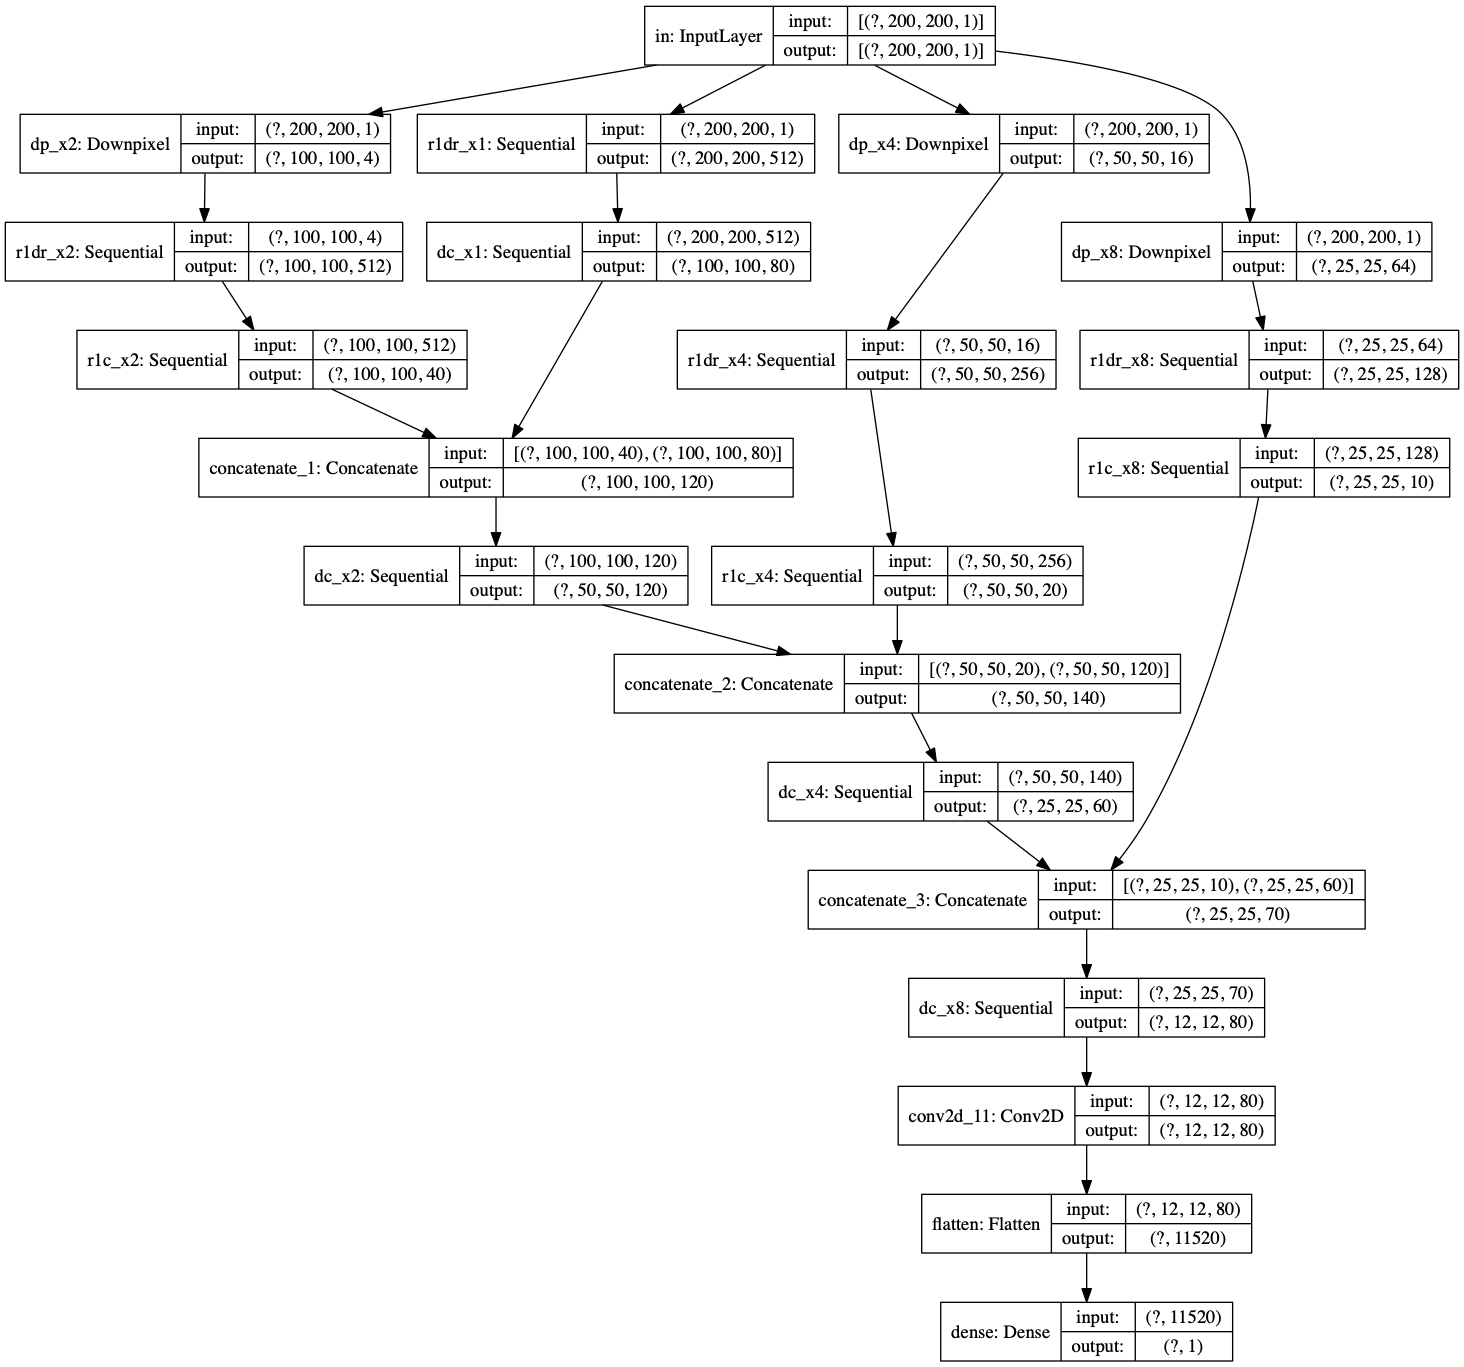
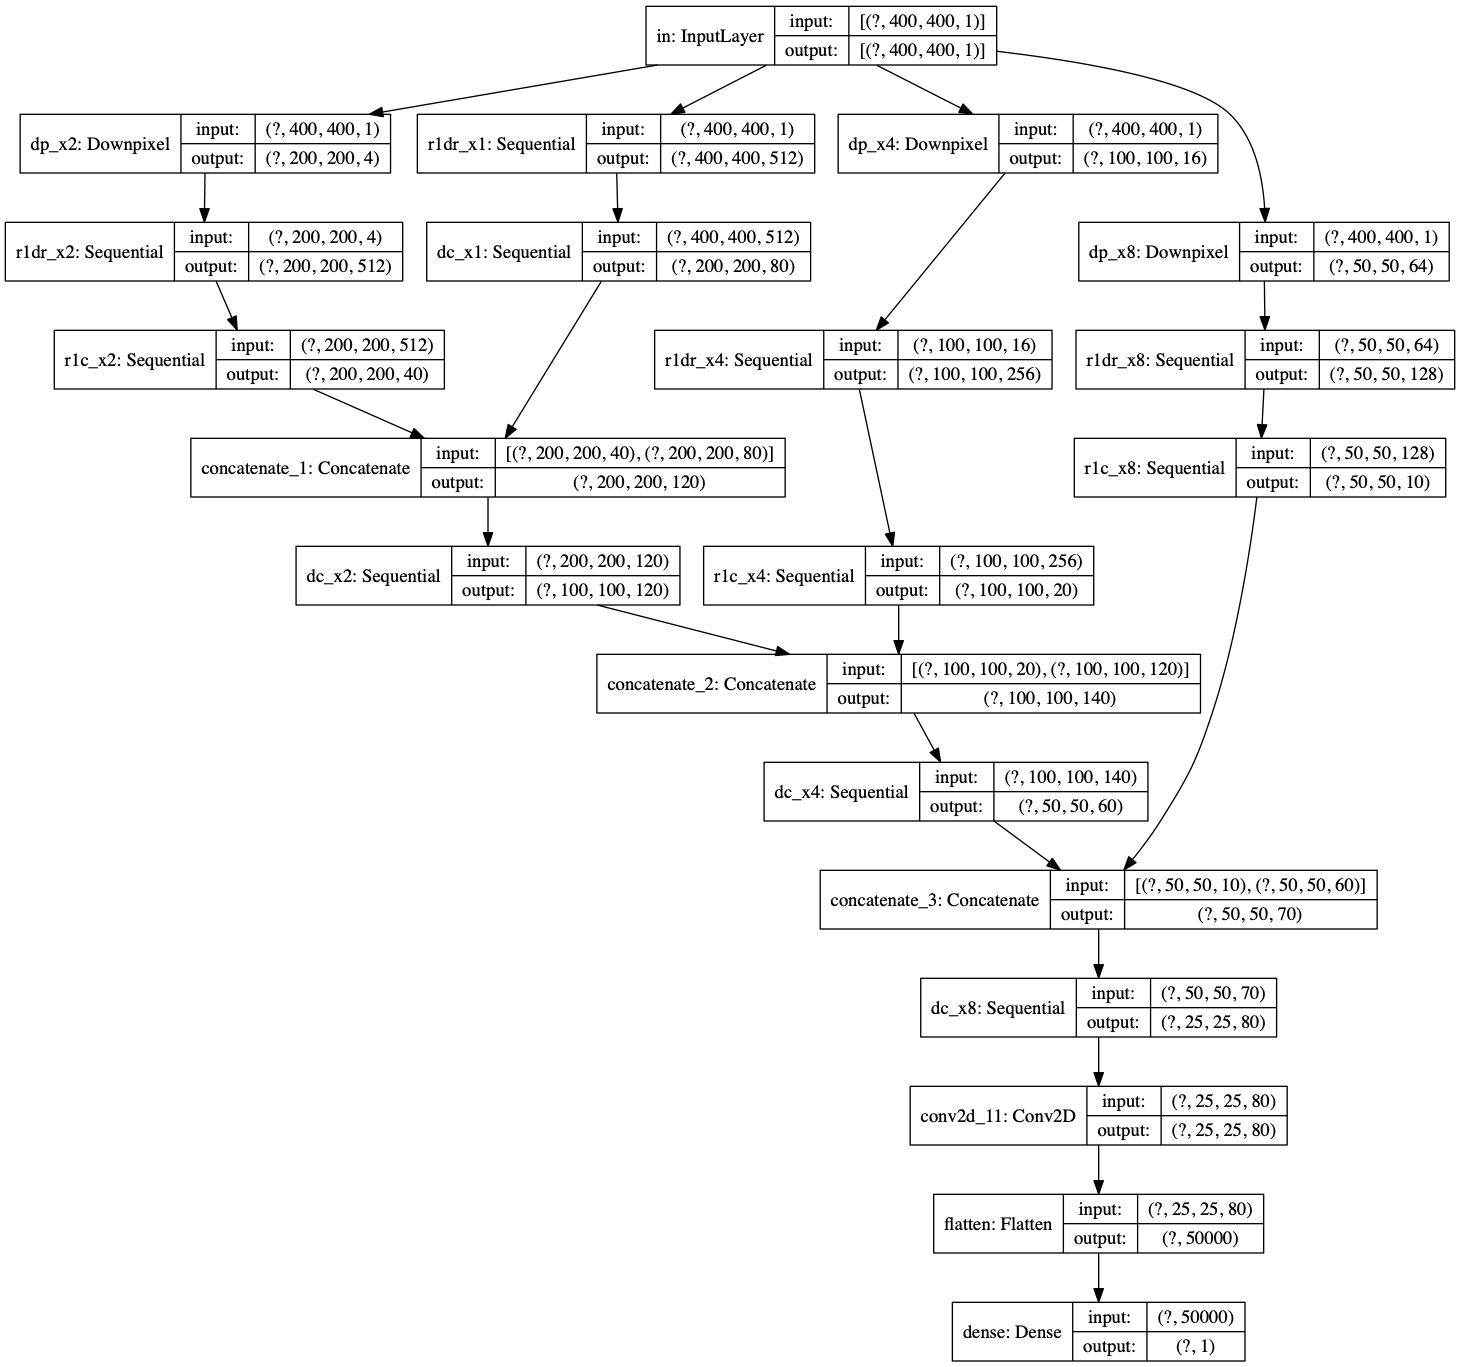
prediction all

diff --git a/test_tad_boundary.py b/test_tad_boundary.py
@@ -1,0 +1,100 @@
+import os
+import numpy as np
+from scipy.sparse import coo_matrix, triu
+
+import subprocess
+import pandas as pd
+
+import cooler
+from iced import filter
+from iced import normalization
+# using hicexplorer to find tad boundary by CLI
+process = list()
+# $ hicFindTADs -m myHiCmatrix.h5 \
+# --outPrefix myHiCmatrix_min3000_max31500_step1500_thres0.05_delta0.01_fdr \
+# --minDepth 3000 \
+# --maxDepth 31500 \
+# --step 1500 \
+# --thresholdComparisons 0.05 \
+# --delta 0.01 \
+# --correctForMultipleTesting fdr \
+# -p 64
+script_work_dir = "./"
+
+name = "/Volumes/GoogleDrive/My Drive/proj/refine_resolution/data/raw/Rao2014-HMEC-MboI-allreps-filtered.100kb.cool"
+c = cooler.Cooler(name)
+resolution = c.binsize
+mat = c.matrix(balance=True).fetch('chr10')
+mat = filter.filter_low_counts(mat, percentage=0.01)
+mat = normalization.ICE_normalization(mat)
+
+bins = c.bins().fetch('chr10')
+
+print(mat.shape)
+print(resolution)
+
+b = {'chrom': ['chr10']*mat.shape[0], 'start': resolution*np.arange(mat.shape[0]), 'end': resolution*np.arange(1, 1+mat.shape[0]), 'weight': [1.0]*mat.shape[0]}
+bins = pd.DataFrame(data = b)
+print(bins)
+
+mat = triu(mat, format='coo')
+p = {'bin1_id': mat.row, 'bin2_id': mat.col, 'count': mat.data}
+pixels = pd.DataFrame(data = p)
+
+uri = os.path.join(".", "demo", "demo.cool")
+cooler.create_cooler(cool_uri=uri, bins=bins, pixels=pixels)
+
+# hicConvertFormat -m matrix.hic --inputFormat hic --outputFormat cool -o matrix.cool --resolutions 10000
+
+"""script_work_dir = os.path.join(".", "demo")
+matrix = os.path.join(".", "demo", "demo.cool")
+outPrefix = "myHiCmatrix"
+cmd = ["hicConvertFormat", 
+        "-m", matrix, 
+        "--inputFormat", "cool",
+        "--outputFormat", "h5",
+        "-o", "demo.h5"
+    ]
+process.append(subprocess.Popen(cmd, cwd=script_work_dir))
+for p in process:
+    p.wait()"""
+
+script_work_dir = os.path.join(".", "demo")
+matrix = os.path.join(".", "demo.cool")
+outPrefix = "myHiCmatrix"
+cmd = ["hicFindTADs", 
+        "-m", matrix, 
+        "--minDepth", "300000",
+        "--maxDepth", "1000000",
+        "--outPrefix", outPrefix,
+        "--thresholdComparisons", "0.05",
+        "--delta", "0.05",
+        "--correctForMultipleTesting", "fdr",
+        "--chromosomes", "chr10"
+    ]
+process.append(subprocess.Popen(cmd, cwd=script_work_dir))
+for p in process:
+    p.wait()
+
+script_work_dir = os.path.join(".", "demo")
+matrix = os.path.join(".", "demo.cool")
+outfile = "myHiCmatrix"
+cmd = ["hicPlotMatrix", 
+        "--log1p", 
+        "--matrix", matrix, 
+        "--outFileName", outfile,
+    ]
+process.append(subprocess.Popen(cmd, cwd=script_work_dir))
+for p in process:
+    p.wait()
+
+script_work_dir = os.path.join(".", "demo")
+outfile = "myHiCTADs"
+cmd = ["hicPlotTADs", 
+        "--tracks", "tracks.ini", 
+        "--region", "chr10:1500000-40000000",
+        "--outFileName", outfile
+    ]
+process.append(subprocess.Popen(cmd, cwd=script_work_dir))
+for p in process:
+    p.wait()

diff --git a/software/wrapper_hicsr.py b/software/wrapper_hicsr.py
@@ -48,7 +48,8 @@ def configure_hicsr():
     predict_path = os.path.join(input_path, 'predict')
     if not os.path.exists(predict_path):
         os.makedirs(predict_path, exist_ok=True)
-    predict_list = ['19', '20', '21', '22', 'X']
+    # predict_list = ['19', '20', '21', '22', 'X']
+    predict_list = ['1', '2', '3', '4', '5', '6', '7', '8', '9', '10', '11', '12', '13', '14', '15', '16', '17', '18', '19', '20', '21', '22', 'X']
 
     return raw_hic, genomic_distance, lr_size, hr_size, downsample_factor, \
         root_dir, experiment_name, preprocessing_chr_list, input_path, \

diff --git a/test_preprocessing_deephic.py b/test_preprocessing_deephic.py
@@ -58,5 +58,4 @@ for c in preprocessing_chr_list:
 
 generate(input_lr_dir=lr_dir, input_hr_dir=hr_dir, output_dir=train_path, postfix='train', chr_list=chr_t_list)
 generate(input_lr_dir=lr_dir, input_hr_dir=hr_dir, output_dir=valid_path, postfix='valid', chr_list=chr_v_list)
-generate(input_lr_dir=lr_dir, input_hr_dir=hr_dir,
-         output_dir=predict_path, postfix='predict', chr_list=chr_p_list)
+generate(input_lr_dir=lr_dir, input_hr_dir=hr_dir, output_dir=predict_path, postfix='predict', chr_list=chr_p_list)

diff --git a/test_evaluation.py b/test_evaluation.py
@@ -54,7 +54,6 @@ def evaluate_hicrep(chromosomes, methods, input_path='./experiment/evaluation/')
                 output = os.path.join(output_path,'{}_chr{}_hicrep_{}.txt'.format(method, chro, h))
                 if os.path.exists(output):
                     os.remove(output)
-                
 
 def evaluate_mae(chromosomes, methods, input_path='./experiment/evaluation/', max_boundary=200, diag_k=2):
     # root_dir = operations.redircwd_back_projroot(project_name='refine_resolution')

diff --git a/our_model/model.py b/our_model/model.py
@@ -767,7 +767,7 @@ def plot_to_image(figure):
 
 
 if __name__ == '__main__':
-    len_size = 200
+    len_size = 400
     scale = 4
     Gen = make_generator_model(len_high_size=len_size, scale=scale)
     Dis = make_discriminator_model(len_high_size=len_size, scale=scale)
